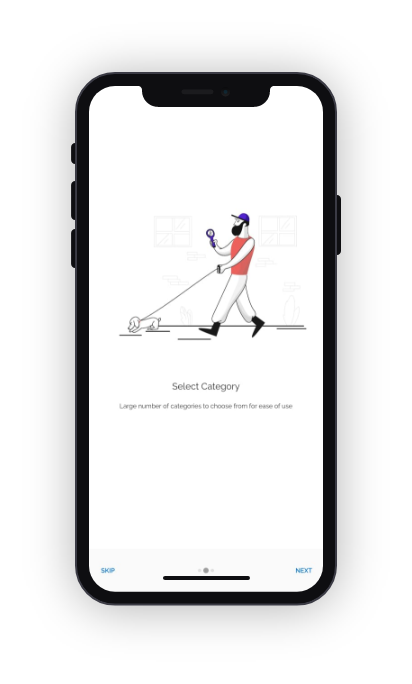
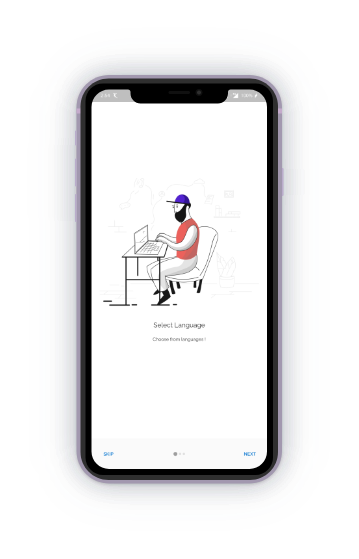
images

Changed region(s): [[0.1532, 0.0912, 0.8273, 0.9123]]

diff --git a/index.html b/index.html
@@ -84,15 +84,14 @@
 		</nav>
 
 		<div class="container fh5co-hero-inner">
-			<h1 style="font-size:4vw;" class="animated fadeIn wow" data-wow-delay="0.4s">Business Made Easily</h1>
-			<p class="animated fadeIn wow" data-wow-delay="0.67s">
-				This words define our ethos and what we offer you
-				on your application.Our application provides you with a one stop
-				database, enabling you to quickly search and
-				identify a supplier that best fulfils your
-				requirements. 
-				All we ask is you come, see and find your answer
-				with us.</p>
+			<h1 style="font-size:4vw;" class="animated fadeIn wow" data-wow-delay="0.4s">Business Made Easy</h1>
+			<p style="width: fit-content;" class="animated fadeIn wow" data-wow-delay="0.67s">
+				Bizzilly- As this term itself is self explanatory, this app is a search app displaying information pertaining to various businesses.
+Our goal has been to connect businesses with people across the globe. In this digital era, SecureTech leads with solutions that help you achieve your goals by reaching out to the community.
+Our objective has been to promote new and existing businesses in your community and help them serve the people of our country. You not only help them establish but also prosper your own community. We are in every neighborhood and our local knowledge will help your business get the attention and expertise it deserves.
+Today, virtual working has been at its utmost importance. So why do all the driving searching for what you need? Let 'Bizzilly' do it for you, while you relax. It will give you the best results within 30 kms of your current location, right at your fingertips. 
+We invest time and money in our innovation lab, searching for new technologies to help keep you one step ahead in this digital world.
+	</p>
 			<button class="btn btn-md download-btn-first wow fadeInLeft animated" data-wow-delay="0.85s" onclick="$('#fh5co-download').goTo();return false;">Download</button>
 			<button class="btn btn-md features-btn-first animated fadeInLeft wow" data-wow-delay="0.95s" onclick="$('#fh5co-features').goTo();return false;">Features</button>
 			<img class="fh5co-hero-smartphone animated fadeInRight wow" data-wow-delay="1s" src="img/homescreen.png" alt="Smartphone">
@@ -156,8 +155,8 @@
 				<div class="item"><img src="img/walkthrough2.png" alt=""></div>
 				<div class="item"><img src="img/walkthrough3.png" alt=""></div>
 				<div class="item"><img src="img/community.png" alt=""></div>
-				<div class="item"><img src="img/categories.png" alt=""></div>
-				<div class="item"><img src="img/mainscreen.png" alt=""></div>
+				<div class="item"><img src="img/category@2x.png" alt=""></div>
+				<div class="item"><img src="img/homepage@2x.png" alt=""></div>
 
 
 
@@ -179,7 +178,7 @@
 
 				<div class="col-sm-6 in-order-1 wow animated fadeInLeft" data-wow-delay="0.22s">
 					<div class="col-sm-image-container">
-						<img class="img-float-left" src="img/mainscreen.png" alt="smartphone-1">
+						<img class="img-float-left" src="img/homepage@2x.png" alt="smartphone-1">
 						<!-- <span class="span-new">NEW</span>
 						<span class="span-free">Free</span> -->
 					</div>
@@ -212,7 +211,7 @@
 			<div class="row fh5co-features-grid-columns">
 
 				<div class="col-sm-6 in-order-3 sm-6-content wow animated fadeInLeft" data-wow-delay="0.22s">
-					<h1>Community</h1>
+					<h1>Languages</h1>
 					<p>Connected to the world in every aspect </p>
 					<span class="circle circle-first"><i class="fas fa-star"></i></span>
 					<span class="circle circle-middle"><i class="far fa-star"></i></span>
@@ -235,7 +234,7 @@
 
 				<div class="col-sm-6 in-order-5 wow animated fadeInLeft" data-wow-delay="0.22s">
 					<div class="col-sm-image-container">
-						<img class="img-float-left" src="img/categories.png" alt="smartphone-3">
+						<img class="img-float-left" src="img/category@2x.png" alt="smartphone-3">
 						<!-- <span class="span-data">DATA</span>
 						<span class="span-percent">100%</span> -->
 					</div>
